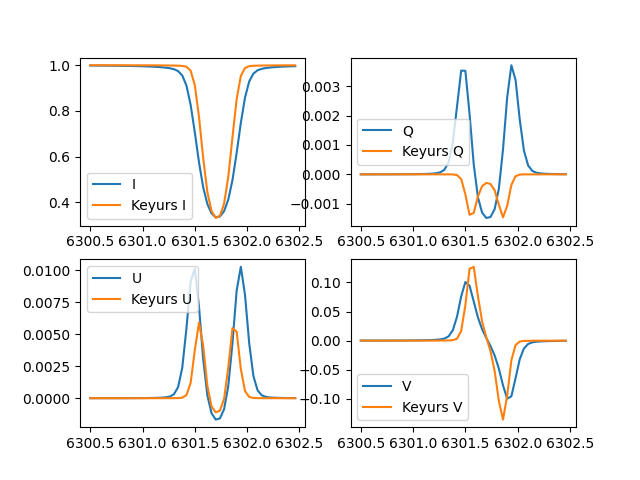
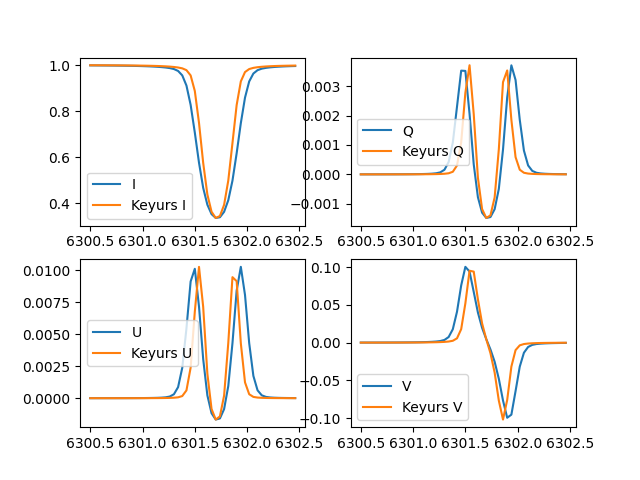
Comparison
Used the wrong input when comparing. Now it's more or less correct :)

diff --git a/src/test.py b/src/test.py
@@ -13,7 +13,7 @@ B = 1000
 a = 0.8
 b = 0.2
 
-I,Q,U,V = UR(a,b,B,x,l_0,ddopller,10,0.01,m.radians(30),m.radians(45),10,2,2,1,2,2,2)
+I,Q,U,V = UR(a,b,B,x,l_0,ddopller,10,0.05,m.radians(45),m.radians(30),10,2,2,1,2,2,2)
 
 URlst = [I,Q,U,V]
 
